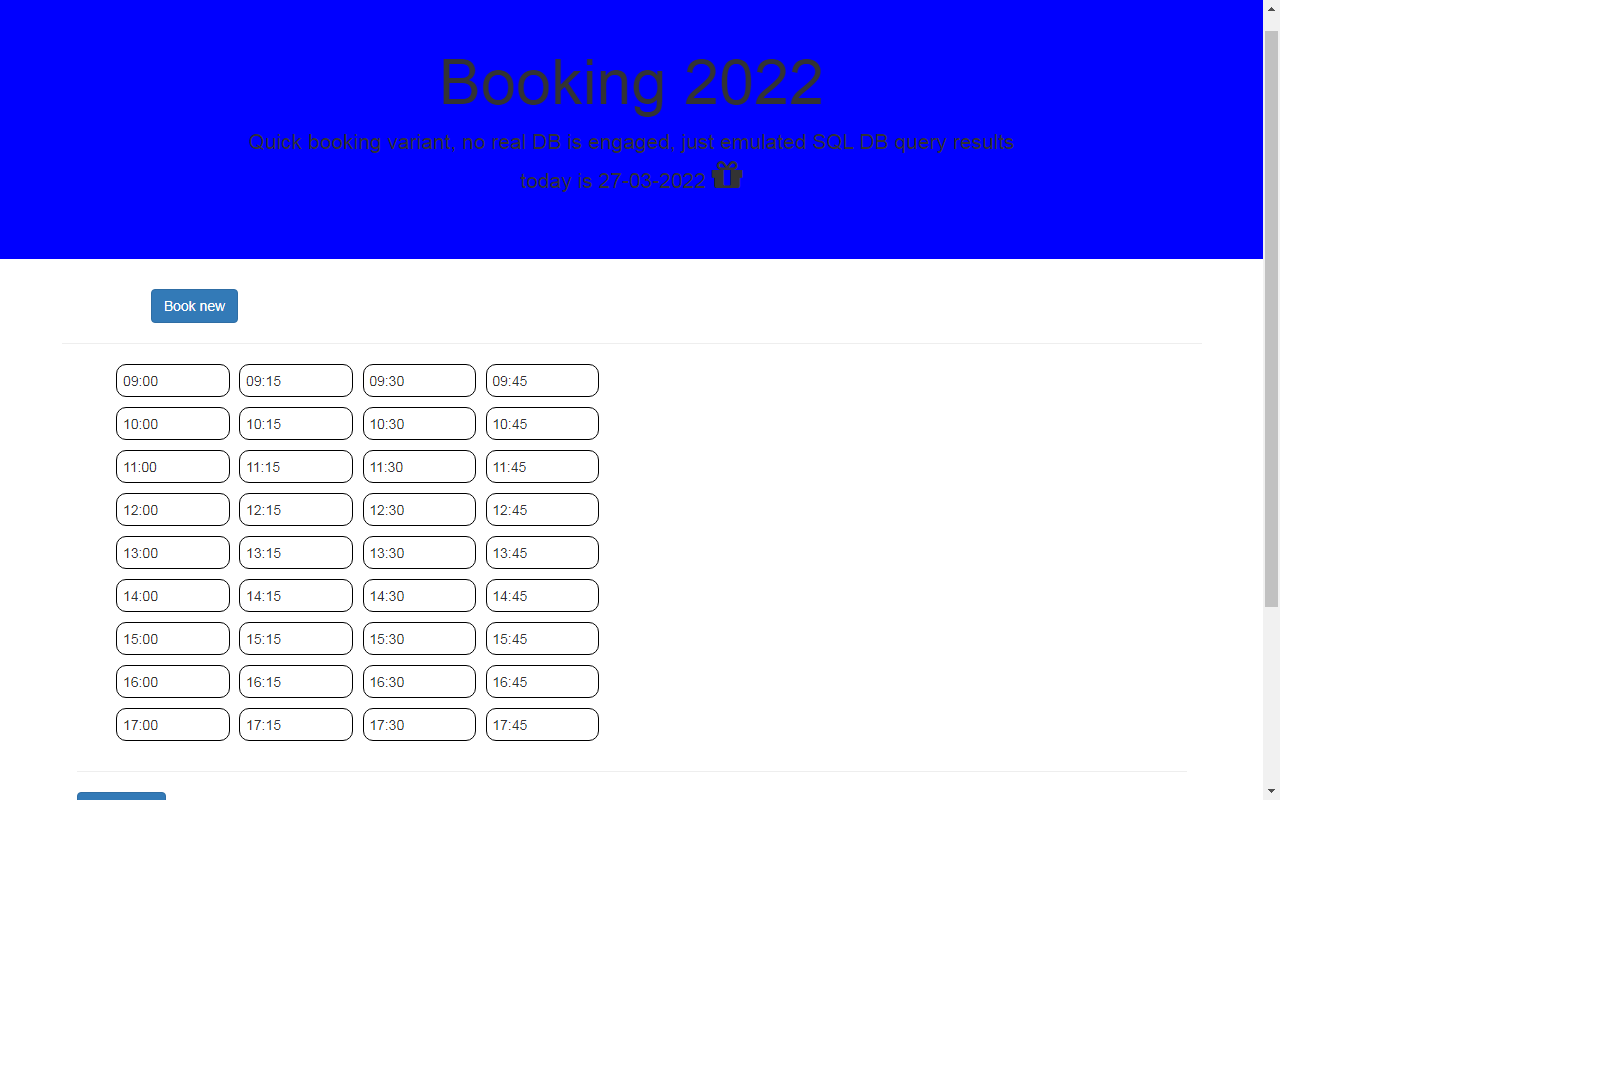
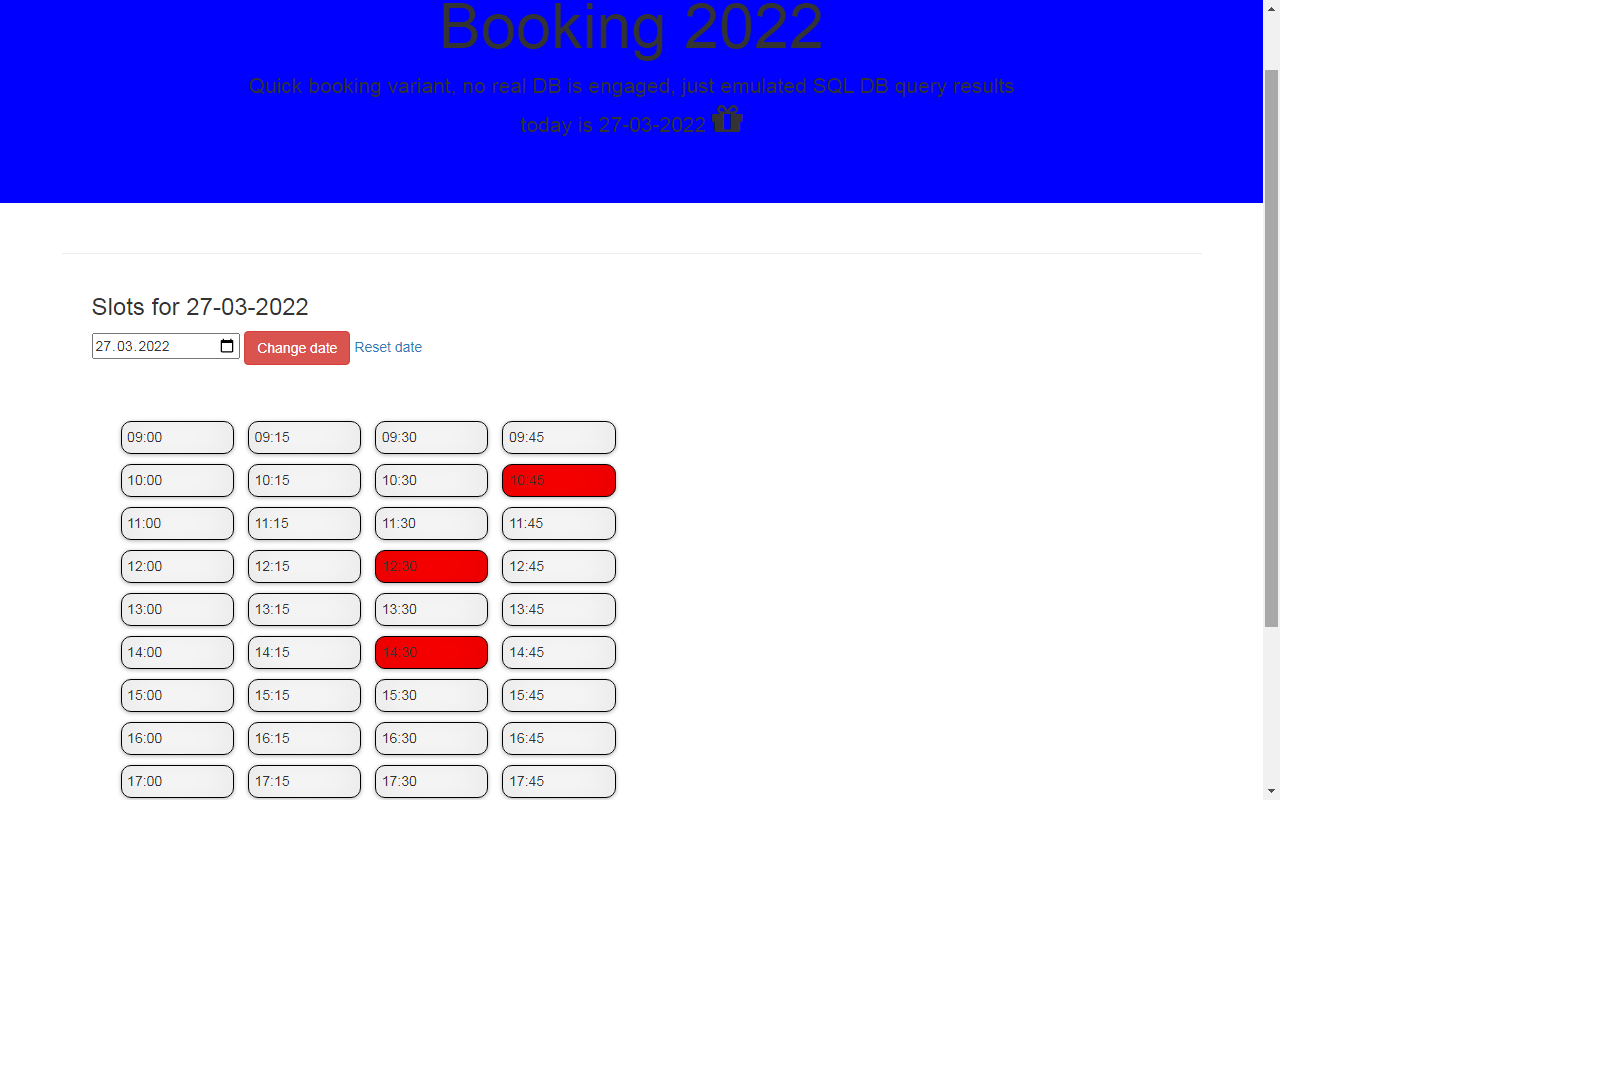
Booking(feat): datepicker

Changed region(s): [[0.0, 0.0, 0.8085, 0.7639]]

diff --git a/Booking_2022/js/booking_2022.js b/Booking_2022/js/booking_2022.js
@@ -2,11 +2,21 @@
 
 $(document).ready(function(){
 	
-	
+	//sets the input type="date" to today or GET in URL (if isset)
+	var results = window.location.href.split("?")[1]; //gets "date-picker=2022-04-07" if get is set
+	if(results != undefined){
+		//sets form datepicker input to $_GET value
+		let t = results.split("=")[1]; //gets "2022-04-07"
+		document.getElementById('datePicker').value = t; //u can set <input type="date"/> you need to bring the date in "YYYY-MM-DD" 
+	} else {
+  
+	    //sets form datepicker input to today, no $_GET value
+	    document.getElementById('datePicker').valueAsDate = new Date();
+	}
 	
 	/*
     |--------------------------------------------------------------------------
-    | If user click on the slot
+    | If user click on the any time slot (either taken or free)
     |--------------------------------------------------------------------------
     |
     |
@@ -14,6 +24,7 @@ $(document).ready(function(){
 	
 	$(document).on("click", '.slot', function() {   // this  click  is  used  to   react  to  newly generated cicles;
 	    
+		//it slot is taken already
 		if( $(this).hasClass("taken-slot") ){
 			swal({html:true, title:'Stopped!', text:'<b>Cannot </br> select taken slots', type: 'error'});
 			return false;
@@ -32,6 +43,7 @@ $(document).ready(function(){
         //if user selects time slot 		
 		} else {
 			
+			$("*").removeClass("selected"); //remove class "selected" for prev clicked, if any
 			$(this).addClass("selected");
 			$(this).removeClass("not-selected");
 			$(".button-mine"). fadeIn(800);
@@ -39,17 +51,48 @@ $(document).ready(function(){
 			//html the form input with selected time slot
 			$time = $(this).html();
 			$("#selected-time").html($time);        //html in modal window 
-			$('#selectedTimeSlot').val($time); //html the hidden input in modal window 
+			$('#selectedTimeSlot').val($time);     //html the hidden input with $time  (in modal window)
 		}
 		
-		//add selected time slot to form............
+		
 	});
 	
 	
 	
 	
-});
-// end ready	
 	
+	/*
+    |--------------------------------------------------------------------------
+    | If user click to change date of displaying slot list
+    |--------------------------------------------------------------------------
+    |
+    |
+    */
+	
+	$(document).on("click", '#changeDateBtn', function(e) {   // this  click  is  used  to   react  to  newly generated cicles;
+	
+	    //e.preventDefault();
+	    let changedDate = $('#datePicker').val();  //gets input value, e,g 2022-03-25
+		//$('#datePicker').val(changedDate.split("-")[2] + "-" +changedDate.split("-")[1] + "-" +changedDate.split("-")[0]);  //change 2022-03-25 to 25-03-2022
+		
+		//check if selected value is not past
+		let selected  = new Date(changedDate);             //returns Sat Mar 26 2022 20:38:22 GMT+0100 (Центральная Европа, стандартное время)
+		let yesterday = new Date(Date.now() - 86400000); // that is: 24 * 60 * 60 * 1000 //returns Sat Mar 26 2022 20:38:22 GMT+0100 (Центральная Европа, стандартное время)
+		
+		//alert(yesterday.getTime()); //1648323461323
+		if(selected.getTime() <= yesterday.getTime()){  // yesterday.getTime() returns 1648323461323
+		    swal({html:true, title:'Stopped!', text:'<b>Cannot </br> select yesterday', type: 'error'});
+			return false;
+		}
+		//if all OK, form is submitted, with URL /?date-picker=2022-03-27
+		//end check if selected value is not past
+		
+		
+	});
+	
+	
+	
+});
+// end ready		
 	
 }()); //END IIFE (Immediately Invoked Function Expression)

diff --git a/Booking_2022/index.php b/Booking_2022/index.php
@@ -43,22 +43,30 @@ include 'Classes/My_Booking/BookingProcess.php';//
 		    use Classes\My_Booking\BookingProcess; //namespace is must-have, otherwise class not found
 			$model       = new BookingProcess();
 			$todayIs     = $model->getCurrentDay();                   //gets today date, i.e "27-03-2022"
-			$sqlResult   = $model->getSQLDataForDate(/*$todayIs*/);   //gets emulated SQL quiery result, type: array of objects
-			$schedule    = $model->createSchedule($sqlResult);        //build Schedule
+			
+			//if isset $_GET['date-picker'], happens when user clicked "Change date"
+			if(isset($_GET['date-picker']) && $_GET['date-picker'] != null  ){
+			    $r = explode("-",$_GET['date-picker']); //$_GET['date-picker']) string comes reversed, i.e 2022-04-07, return it to "27-03-2022"
+                $todayIs = $r[2] . "-" . $r[1]. "-" . $r[0];				
+			}
+			
+			//$urlGetDate  = (isset($_GET['date-picker']) && $_GET['date-picker'] != null  ) ? $_GET['date-picker'] : $todayIs ;
+			$sqlResult   = $model->getSQLDataForDate($todayIs);   //gets emulated SQL quiery result, type: array of objects
+			$schedule    = $model->createSchedule($sqlResult);        //build Schedule with time slots
 			
 		?>
 	 
 	 
-
+        <!------ Header -------->
         <div id="headX" class="jumbotron text-center gradient head-style" style ='background:blue;'> <!--#2ba6cb;-->
             <h1 id="h1Text"> <span id="textChange"> Booking 2022</span>   </h1>
             <p class="header_p"> 
 			    Quick booking variant, no real DB is engaged, just emulated SQL DB query results </br>
-			    <?= "today is " . $todayIs; ?>
+			    <?= "today is " . $model->getCurrentDay(); ?>
 			    <i class="fa fa-gift" style="font-size:36px"></i></p> 
                 <!--<p class="language"><a href="../">Ru</a></p>-->
 		</div>		
-				
+		<!------ END Header -------->		
 		
 
 
@@ -66,13 +74,6 @@ include 'Classes/My_Booking/BookingProcess.php';//
 		<!---------- Modal window ------------------->
 		<div class="col-sm-12 col-xs-12">
 		    
-            <div class="col-sm-12 col-xs-12 height-x">			
-		    <!-- Button to Open the Modal -->
-            <button type="button" class="btn btn-primary button-mine" data-toggle="modal" data-target="#myModal" style="margin-left:11%;">
-                    Book it
-            </button>
-            </div>
-			
             <!-- The Modal -->
             <div class="modal fade" id="myModal">
                 <div class="modal-dialog">
@@ -87,12 +88,13 @@ include 'Classes/My_Booking/BookingProcess.php';//
                         <!-- Modal body -->
                         <div class="modal-body">
                             <p> You selected time:  </p>
+							<p> <?=$todayIs; ?> </p>
 							<p id="selected-time" class="shadowX time-p"> </p>
 							
 							<!-- Form -->
 					        <div class="col-sm-12 col-xs-12">
 					            <hr>
-						        <form class="form-horizontal" method="post" action="pages/check_captcha.php" enctype="multipart/form-data">
+						        <form class="form-horizontal" method="post" action="#" enctype="multipart/form-data">
 								
 						            <input type="hidden"  name="selected-time-slot" id="selectedTimeSlot"/>   <!-- val() via jQ -->
 								    
@@ -112,7 +114,7 @@ include 'Classes/My_Booking/BookingProcess.php';//
 									
 									
                                     <div class="col-md-6">
-						                <button type="submit" id="submBtn" class="btn btn-large btn-primary"> Confirm</button>
+						                <button type="submit" onclick="alert('N/A');return false;" id="submBtn" class="btn btn-large btn-primary"> Confirm(N/A)</button>
 									</div>
 									
 						        </form>
@@ -150,24 +152,42 @@ include 'Classes/My_Booking/BookingProcess.php';//
     	        <div class="container">
                     <hr>
              
-			        <!-- Build schedule here  -->
+			        <!-- Build schedule list with time slots here  -->
 						<div class="col-sm-12 col-xs-12">
 						    <div class="col-sm-8 col-xs-12">
-							
-							   
-                            <?php
-							//echo '<pre>';
-							//var_dump($sqlResult);
-                            //echo '</pre>';	
-
-                            echo $schedule;	
+							    <h3> Slots for <?= $todayIs ?> </h3>
+								
+								
+								<!-- DatePicker form, to change the date -->
+								<form class="form-horizontal" method="get" action="" enctype="multipart/form-data">
+								    <input type="date"  name="date-picker" id="datePicker" lang="en-US" />
+									<button type="submit" id="changeDateBtn" class="btn btn-danger" data-dismiss="modal">Change date</button>
+									<a href=" <?= parse_url($_SERVER["REQUEST_URI"], PHP_URL_PATH)?>"> Reset date </a> <!-- return base url without get -->
+								</form>
+								<!-- End DatePicker form, to change the date  -->
+								
+								
+								<!-- Button to Open the Modal -->
+								<div class="col-sm-12 col-xs-12 height-x">			
+                                    <button type="button" class="btn btn-primary button-mine" data-toggle="modal" data-target="#myModal" style="margin-left:1%;">
+                                        Book it
+                                    </button>
+                                 </div>
+								 <!-- Button to Open the Modal -->
+			
+                                <?php
+							    //echo '<pre>';
+							    //var_dump($sqlResult);
+                                //echo '</pre>';	
+                                
+                                echo $schedule;	//time slots grid list
                           
 							
 							?>
 								
 							</div>
 						</div>
-					<!-- End Build schedule here -->
+					<!-- End Build schedule list with time slots here -->
 			 
 			 
 

diff --git a/Booking_2022/Classes/My_Booking/BookingProcess.php b/Booking_2022/Classes/My_Booking/BookingProcess.php
@@ -6,13 +6,14 @@ namespace Classes\My_Booking;
 class BookingProcess 
 {
 	public $todayIs;  //assigning here will crash, use in constructor only, public $todayIs= self::getCurrentDay(); 
-	public $sqlData = array();
+	public $sqlData = array(); //to hold emulated sql query results. Type: Array of objects
 	
    
 	
-	//$oVal = (object)[];
+	
 	function __construct(){
-		$this->todayIs = self::getCurrentDay(); 
+		
+		$this->todayIs = self::getCurrentDay(); //e.g "27-03-2022"
 		
 		 //emulated sql query results, as we don't work here with real SQL, Type: Array of objects
 	    $this->sqlData = array(
@@ -39,16 +40,18 @@ class BookingProcess
 	
 
 	/**
-    * Function to return emulated SQL quiery result 
+    * Function to return emulated SQL query result 
 	* @param string $day
     * @return Type: Array of objects $this->sqlData
     */
 	public function getSQLDataForDate($day=''){
         if ($day=="") { 
-		    $day = date("Y-m-d"); 
+		    $day = date("Y-m-d"); //if arg is not provided, take today
 		}
 		
-		//$this->sqlData = (object)$this->sqlData; //converts array to object
+		//in real app, when working with DB, make here SQL query to get data based on ->where('db_column_name', $day)..........
+		//..........................
+		
 		return $this->sqlData;
 	}
 	
@@ -94,6 +97,15 @@ class BookingProcess
 			$schedule.= "</div>";
 		}
 		return $schedule;
+	}
+	
+	/**
+    * Function to to save new booking 
+	* @param 
+    * @return 
+    */
+	public function saveNewBooking(){
+		//check here if booking with the same time slot and date exist, if TRUE, return false
 	}
 	
 }

diff --git a/Booking_2022/README.md b/Booking_2022/README.md
@@ -2,9 +2,14 @@
 >  Quick booking variant, no real DB is engaged, just emulated SQL DB query results. SQL is defined in Classes\My_Booking\BookingProcess. Type: Array of objects
 >  https://code-boxx.com/simple-php-reservation-system/
 
-- <p> Not implemented 100%, just reading the sql data and building the time slots, but quit enough to develop further</p>
+- <p> Not implemented 100%, just reading the sql data and building the time slots, but quite enough to develop further</p>
 - <p> Working hours and slots interval are defined in Classes\My_Booking\BookingProcess in function createSchedule</p>
 
 ## Time slots
 
 ![Screenshot](images/Screenshots/1.png)
+![Screenshot](images/Screenshots/2.png)
+![Screenshot](images/Screenshots/3.png)
+![Screenshot](images/Screenshots/4.png)
+![Screenshot](images/Screenshots/5.png)
+![Screenshot](images/Screenshots/6.png)
